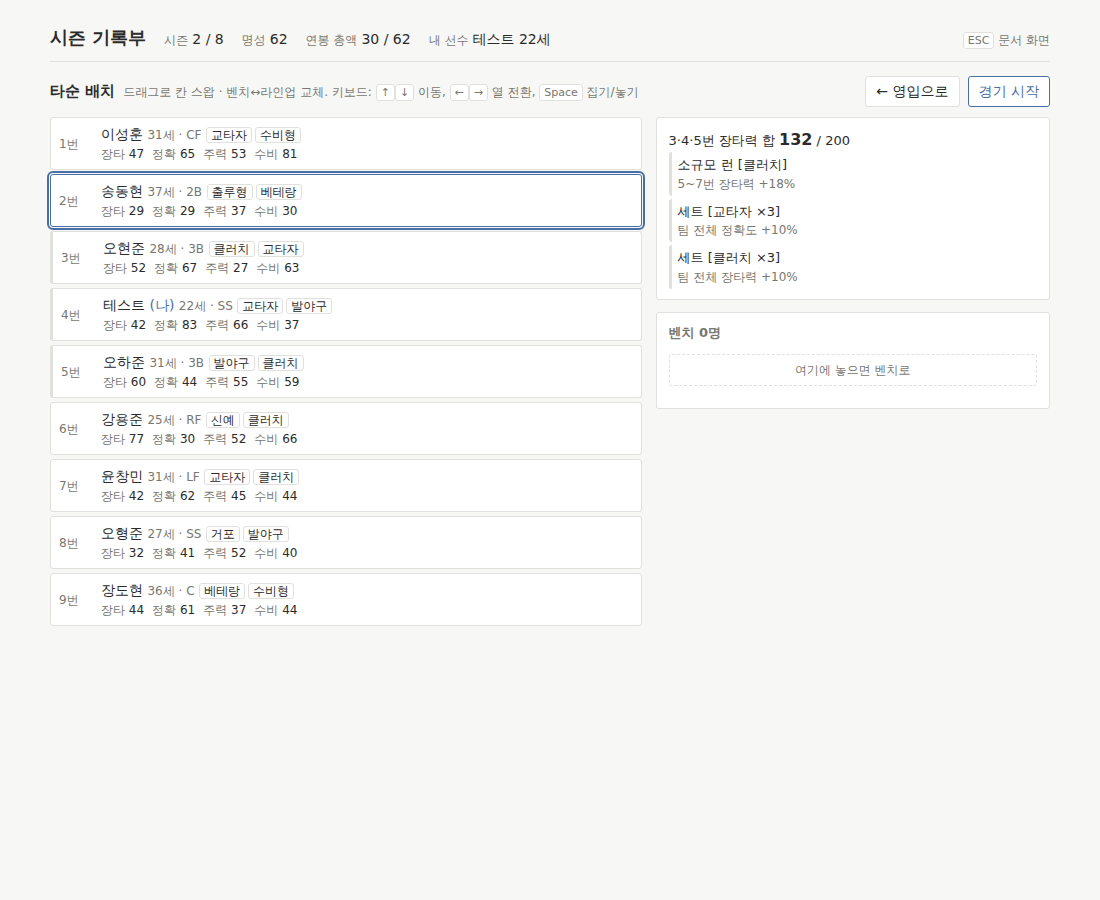
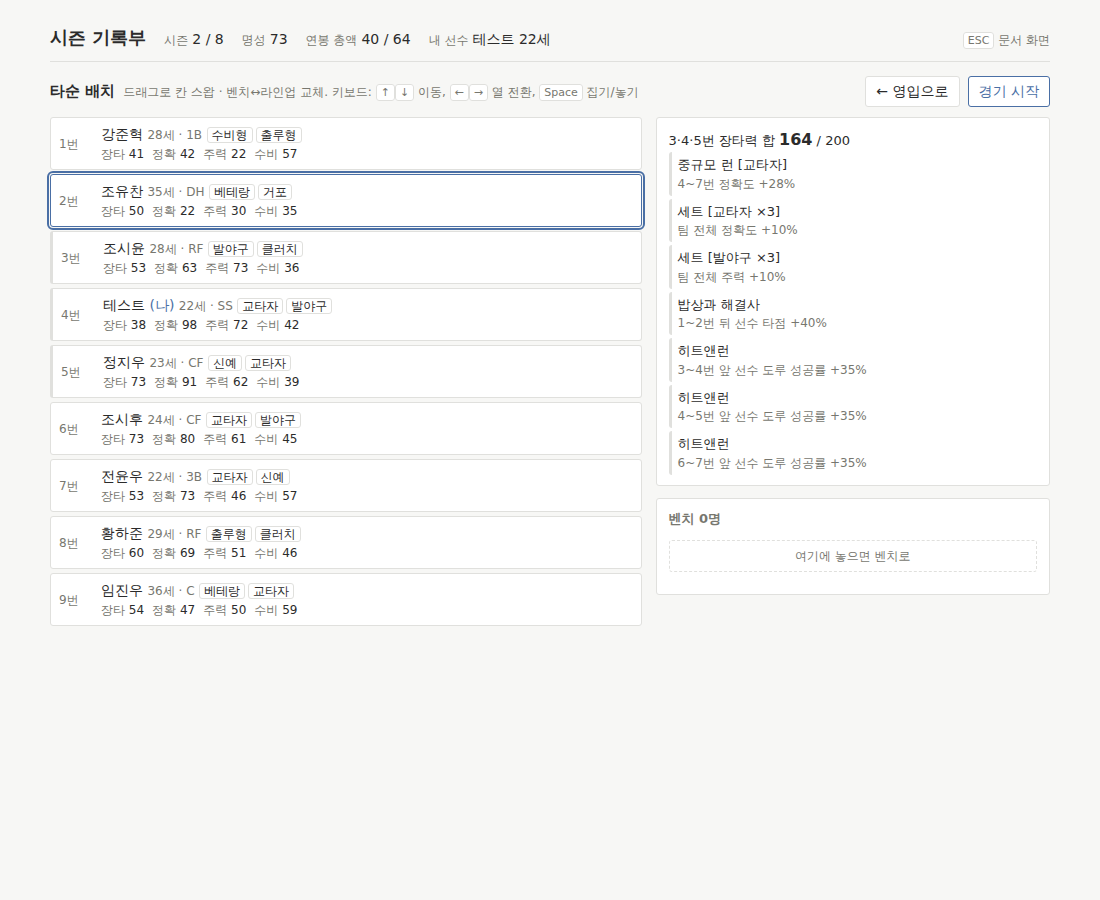
엔진 재결합: 난이도 완화 반영
Claude-Session: https://claude.ai/code/session_01M6qMdCqcWUZ15sCAybwgiu

diff --git a/index.html b/index.html
@@ -184,20 +184,20 @@
     startAge: 21, rookieAge: 19, veteranAge: 25,
     roundWeights: [0.15, 0.2, 0.3, 0.2, 0.15],
     rounds: [
-      { round: 1, budget: 52, fame: 50 },
-      { round: 2, budget: 49, fame: 40 },
-      { round: 3, budget: 46, fame: 30 },
-      { round: 4, budget: 44, fame: 22 },
-      { round: 5, budget: 42, fame: 15 }
+      { round: 1, budget: 56, fame: 50 },
+      { round: 2, budget: 53, fame: 40 },
+      { round: 3, budget: 50, fame: 30 },
+      { round: 4, budget: 48, fame: 22 },
+      { round: 5, budget: 46, fame: 15 }
     ]
   };
 
   // 5.2 영입
-  C.SHOP = { cards: 5, rerolls: 2, extraRerollCost: 3, releaseRefund: 0.5, budgetPerFame: 1 / 6 };
+  C.SHOP = { cards: 5, rerolls: 2, extraRerollCost: 3, releaseRefund: 0.5, budgetPerFame: 1 / 5 };
 
   // 카드 생성 — 명성 → 카드 품질
   C.CARD = {
-    baseQuality: 43, qualityPerFame: 0.12, qualitySd: 7, qualityMin: 32, qualityMax: 84,
+    baseQuality: 45, qualityPerFame: 0.13, qualitySd: 7, qualityMin: 32, qualityMax: 84,
     statSd: 11, tagStatBonus: 10, statMin: 20, statMax: 99,
     salaryPerPoint: 0.4, salaryBase: 38, salaryMin: 1,
     rookieAge: [20, 24], veteranAge: [31, 36], normalAge: [23, 31]
@@ -207,9 +207,9 @@
   C.SEASON = {
     games: 144, teams: 10,
     leagueGrowth: 0.01,         // 시즌당 상대 전력 상승
-    fameStrength: 0.0006,       // 명성 1당 상대 전력 +0.08% (유명해질수록 상대도 강해진다)
-    otherTeamSd: 0.075,         // 다른 9팀 승률 편차
-    oppRunsBase: 3.1,           // 상대 평균 득점 (수비 55 기준)
+    fameStrength: 0.0003,       // 명성 1당 상대 전력 +0.08% (유명해질수록 상대도 강해진다)
+    otherTeamSd: 0.065,         // 다른 9팀 승률 편차
+    oppRunsBase: 2.95,          // 상대 평균 득점 (수비 55 기준)
     defenseFactor: 0.006,       // 수비 1점당 상대 득점 -0.6%
     simSamples: 60,             // 시즌 추정에 쓰는 빠른 시뮬 횟수
     showcaseWeight: 0.05,       // 관전 경기 결과 반영 비율
